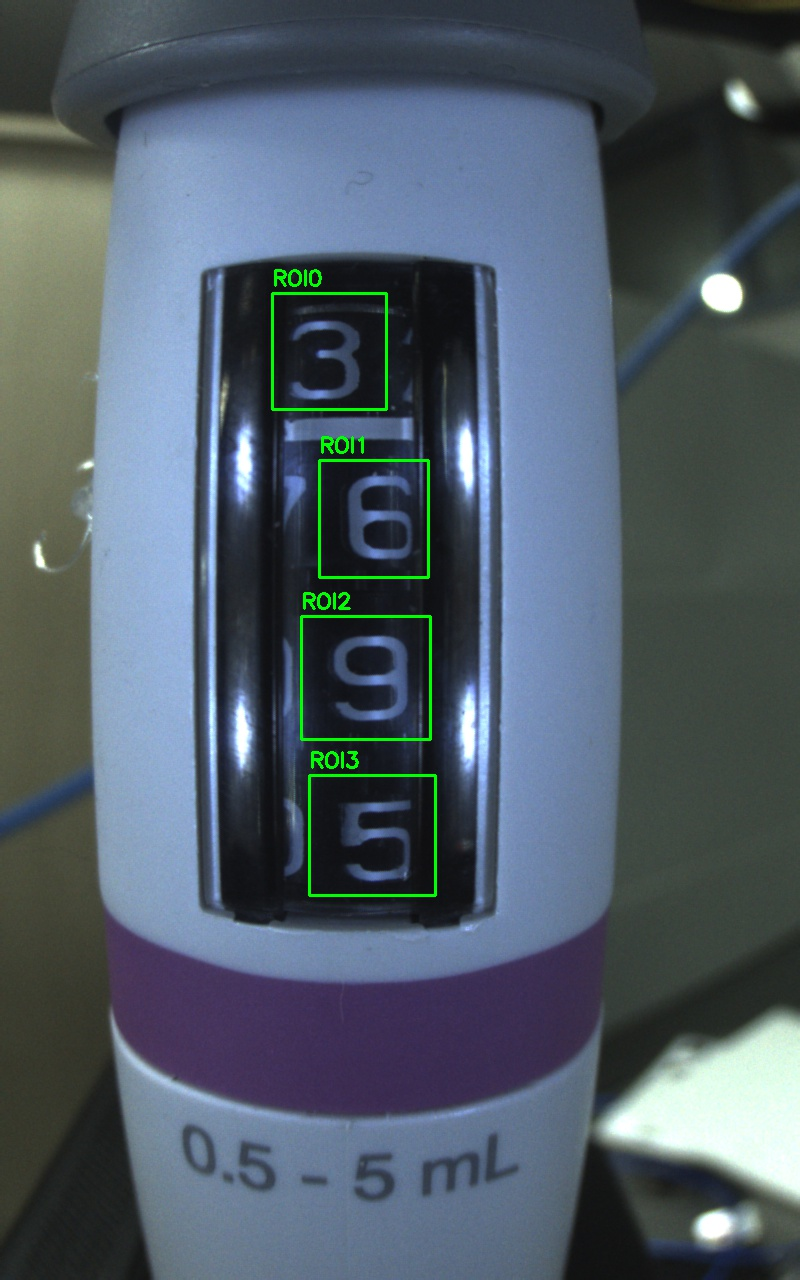
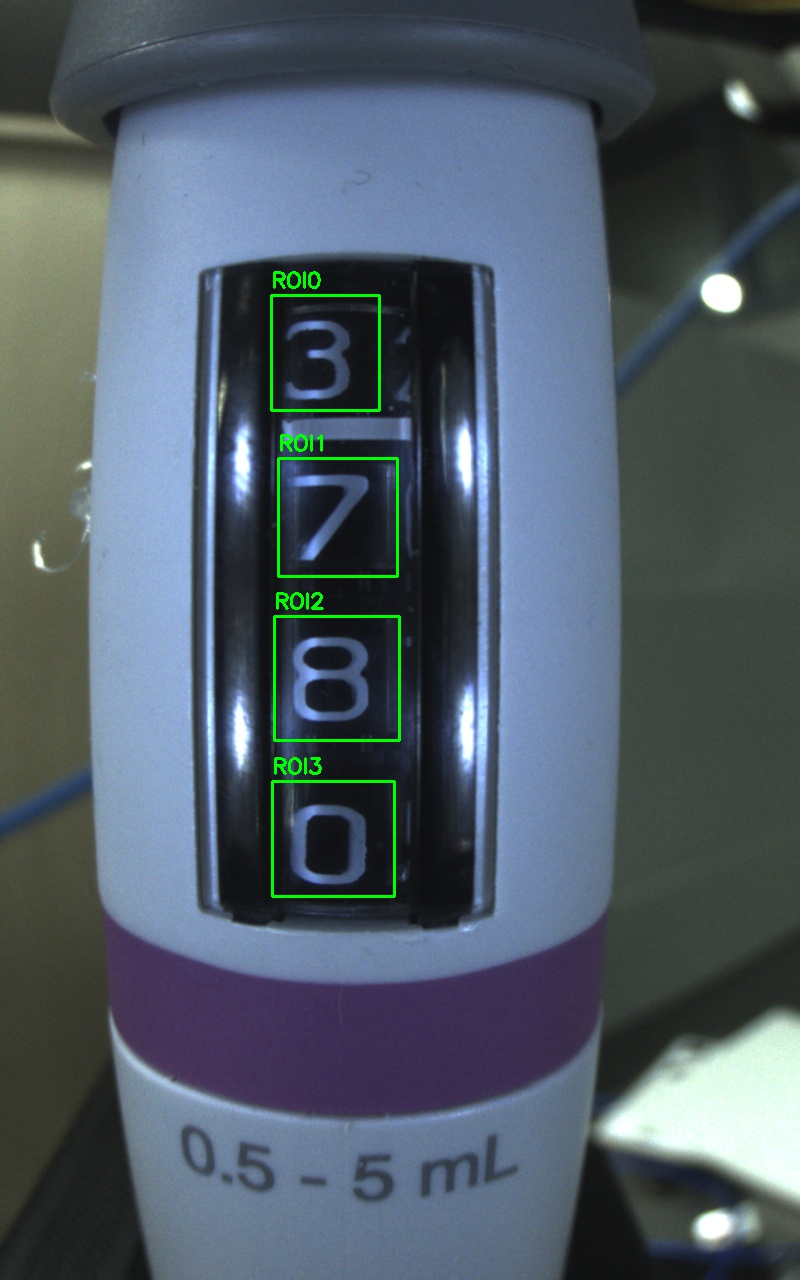
take camera frame after ocr run

diff --git a/gui/controller.py b/gui/controller.py
@@ -9,8 +9,12 @@ from typing import Any, Dict, Optional, List
 from worker.serial_controller import SerialController
 from worker.actuator_linear import LinearActuator
 from worker.actuator_volume_dc import VolumeDCActuator
+from worker.paths import FRAME_JPG_PATH
 
 
+# =================================================
+# Result wrapper
+# =================================================
 @dataclass
 class WorkerResult:
     ok: bool
@@ -18,11 +22,15 @@ class WorkerResult:
     raw: str
 
 
+# =================================================
+# Controller
+# =================================================
 class Controller:
     """
     ✔ Vision / OCR / Run-to-target : subprocess (conda 유지)
     ✔ Linear actuator              : GUI process + SerialController
     ✔ DC motor                     : GUI process + SerialController
+    ✔ VideoPanel frame 갱신 중계
     """
 
     # ==============================
@@ -34,7 +42,11 @@ class Controller:
             os.path.join(os.path.dirname(__file__), "..")
         )
 
+        # worker long-running process
         self.long_proc: Optional[subprocess.Popen] = None
+
+        # GUI panel references
+        self.video_panel = None   # 🔥 VideoPanel 연결용
 
         # ------------------------------
         # Serial (GUI 생명주기 동안 1개)
@@ -67,7 +79,29 @@ class Controller:
             time.sleep(0.1)
 
     # =================================================
-    # Worker runner (Vision / OCR)
+    # Video panel 연결
+    # =================================================
+    def set_video_panel(self, panel):
+        """
+        main_window 에서 VideoPanel 생성 후 반드시 호출
+        """
+        self.video_panel = panel
+
+    def refresh_camera_view(self):
+        """
+        FRAME_JPG_PATH 에 저장된 최신 프레임을
+        VideoPanel에 표시
+        """
+        if not self.video_panel:
+            return
+
+        if not os.path.exists(FRAME_JPG_PATH):
+            return
+
+        self.video_panel.show_image(FRAME_JPG_PATH)
+
+    # =================================================
+    # Internal worker runner (Vision / OCR)
     # =================================================
     def _run_worker(
         self,
@@ -108,21 +142,43 @@ class Controller:
     # Vision / OCR APIs
     # =================================================
     def capture_frame(self, camera_index: int = 0) -> WorkerResult:
-        return self._run_worker(["--capture", f"--camera={camera_index}"], 60)
+        res = self._run_worker(
+            ["--capture", f"--camera={camera_index}"], 60
+        )
+        if res.ok:
+            self.refresh_camera_view()
+        return res
 
-    def yolo_detect(self, reset: bool = False, camera_index: int = 0) -> WorkerResult:
+    def yolo_detect(
+        self,
+        reset: bool = False,
+        camera_index: int = 0,
+    ) -> WorkerResult:
         args = ["--yolo", f"--camera={camera_index}"]
         if reset:
             args.append("--reset-rois")
-        return self._run_worker(args, 120)
+
+        res = self._run_worker(args, 120)
+        if res.ok:
+            self.refresh_camera_view()
+        return res
 
     def ocr_read_volume(self, camera_index: int = 0) -> WorkerResult:
-        return self._run_worker(["--ocr", f"--camera={camera_index}"], 120)
+        res = self._run_worker(
+            ["--ocr", f"--camera={camera_index}"], 120
+        )
+        if res.ok:
+            self.refresh_camera_view()
+        return res
 
     # =================================================
-    # Run-to-target (🔥 핵심 수정 부분)
+    # Run-to-target (worker subprocess)
     # =================================================
-    def start_run_to_target(self, target: int, camera_index: int = 0) -> None:
+    def start_run_to_target(
+        self,
+        target: int,
+        camera_index: int = 0,
+    ) -> None:
         self.stop_run_to_target()
 
         cmd = [
@@ -147,7 +203,6 @@ class Controller:
             daemon=True,
         ).start()
 
-
     def stop_run_to_target(self) -> None:
         if self.long_proc and self.long_proc.poll() is None:
             try:
@@ -168,10 +223,6 @@ class Controller:
         if proc.stderr:
             for line in proc.stderr:
                 print("[WORKER-ERR]", line.rstrip())
-
-
-
-
 
     # =================================================
     # 종료 처리

diff --git a/gui/panels/target_panel.py b/gui/panels/target_panel.py
@@ -2,6 +2,9 @@ from PyQt5.QtWidgets import (
     QGroupBox, QLabel, QVBoxLayout, QHBoxLayout,
     QPushButton, QSpinBox
 )
+from worker.paths import FRAME_JPG_PATH
+import os
+from PyQt5.QtGui import QPixmap
 
 
 class TargetPanel(QGroupBox):
@@ -41,10 +44,12 @@ class TargetPanel(QGroupBox):
     def on_read(self):
         res = self.controller.ocr_read_volume(camera_index=0)
         if not res.ok:
-            self.status.setText("Status: OCR failed (check terminal).")
+            self.status.setText("Status: OCR failed.")
             return
+
         v = int(res.data.get("volume", -1))
         self.status.setText(f"Status: OCR OK, current={v:04d}")
+
 
     def on_start(self):
         t = int(self.target_spin.value())
@@ -54,3 +59,10 @@ class TargetPanel(QGroupBox):
     def on_stop(self):
         self.controller.stop_run_to_target()
         self.status.setText("Status: Stopped.")
+
+    def update_camera_frame(self):
+        if not os.path.exists(FRAME_JPG_PATH):
+            return
+
+        pixmap = QPixmap(FRAME_JPG_PATH)
+        self.camera_label.setPixmap(pixmap)

diff --git a/gui/main_window.py b/gui/main_window.py
@@ -23,6 +23,7 @@ class MainWindow(QWidget):
 
         # ---------- Panels ----------
         self.video_panel = VideoPanel(self.controller)
+        self.controller.set_video_panel(self.video_panel)
         self.yolo_panel = YoloPanel(self.controller, self.video_panel)
         self.target_panel = TargetPanel(self.controller)
         self.pipette_panel = PipettePanel(self.controller)
